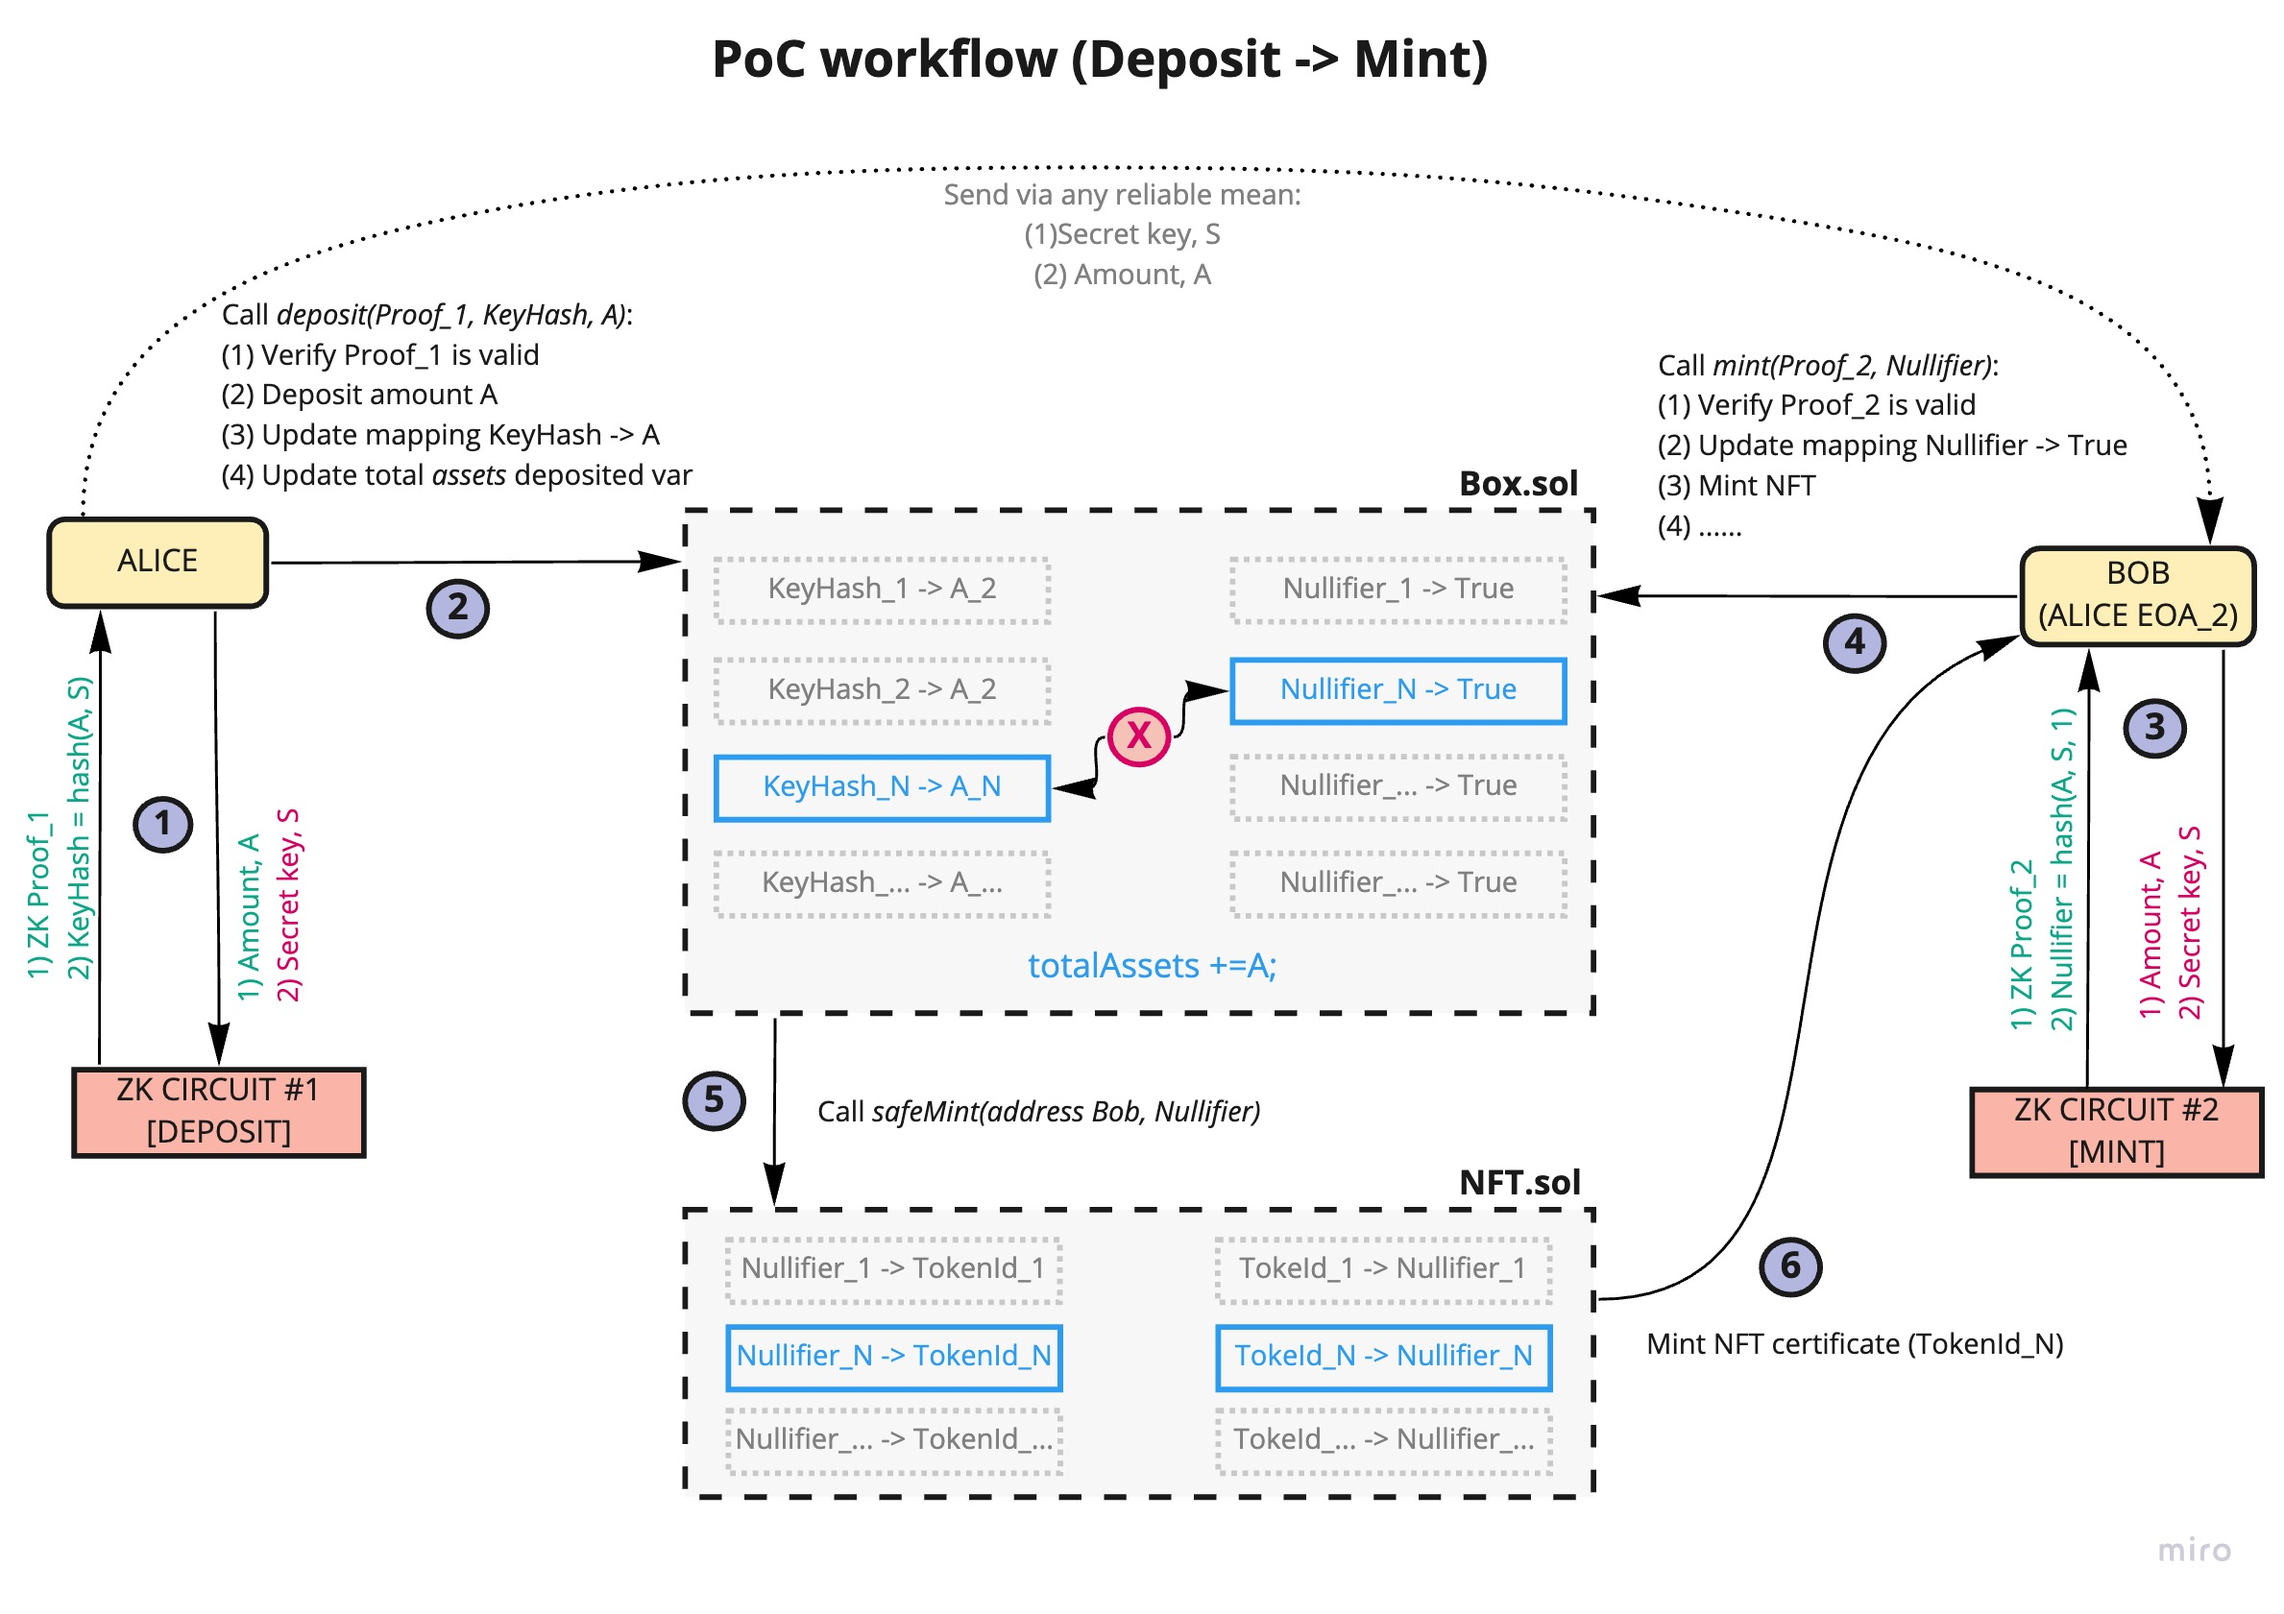
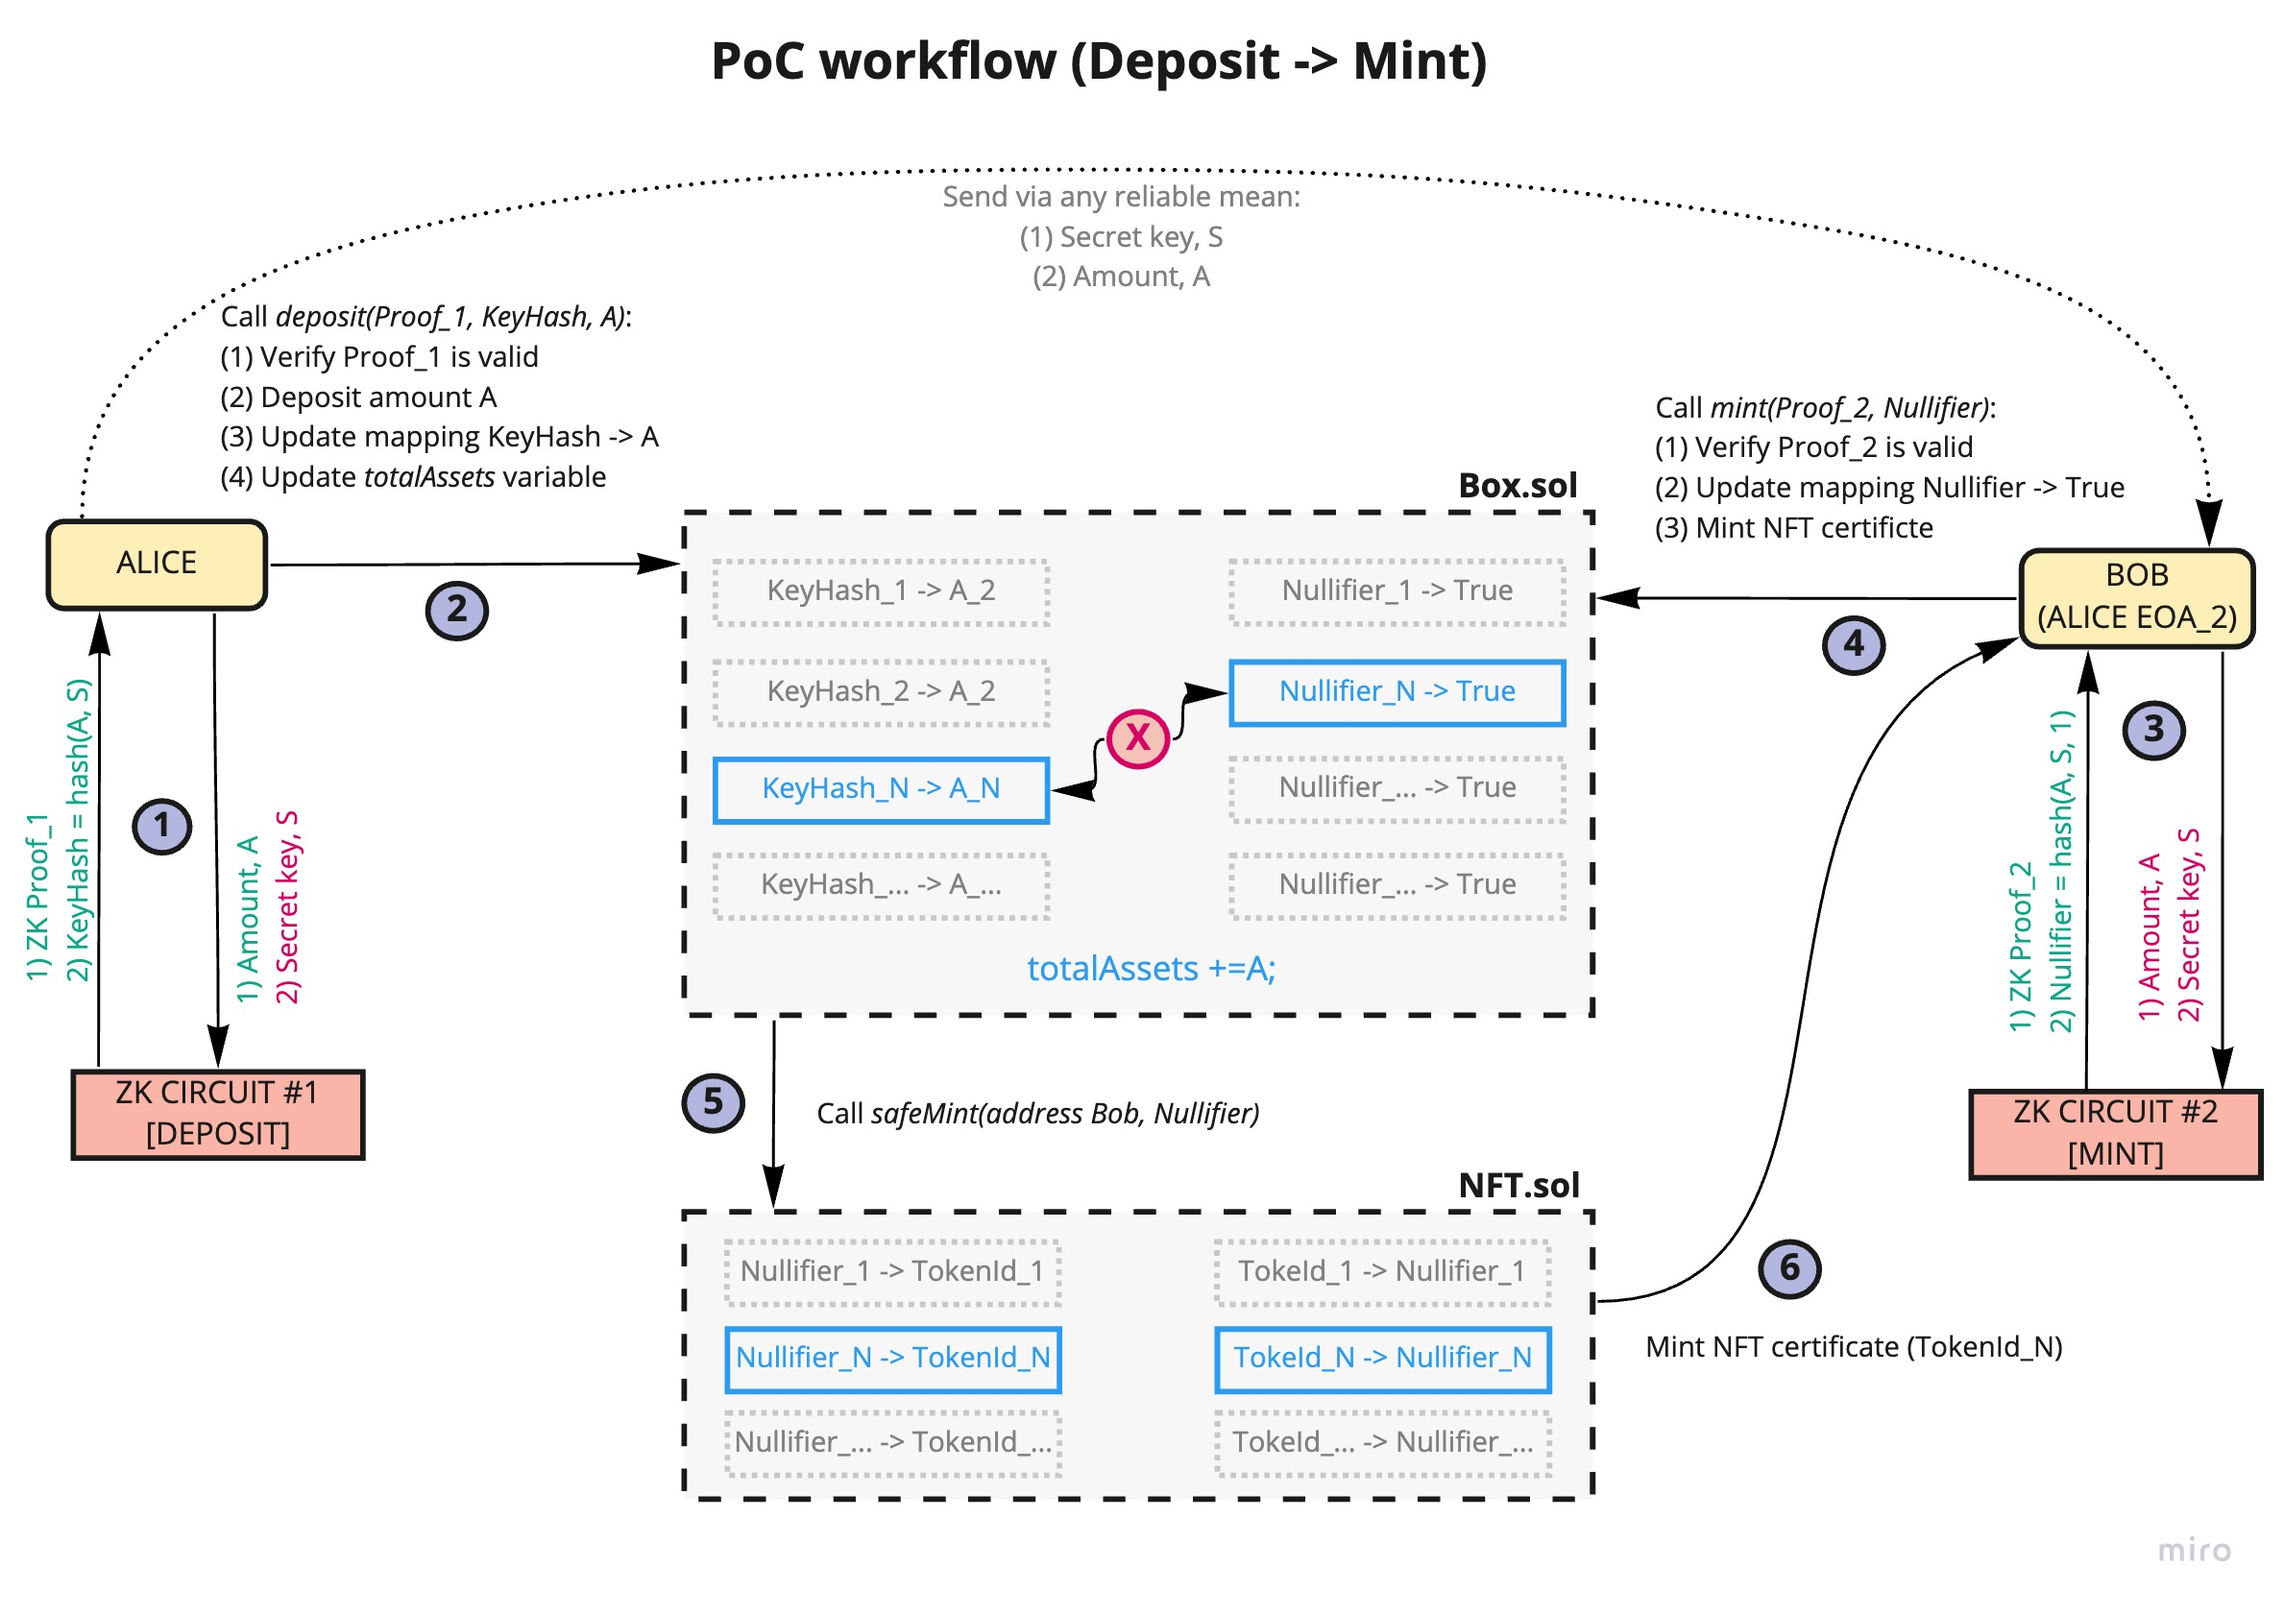
workflow img update

diff --git a/README.md b/README.md
@@ -2,3 +2,5 @@
 Artemis Academy capstone project
 
 ![Deposit-> Mint workflow](./deposit_workflow.jpg)
+
+![Deposit-> Mint workflow](./redeem_workflow.jpg)
